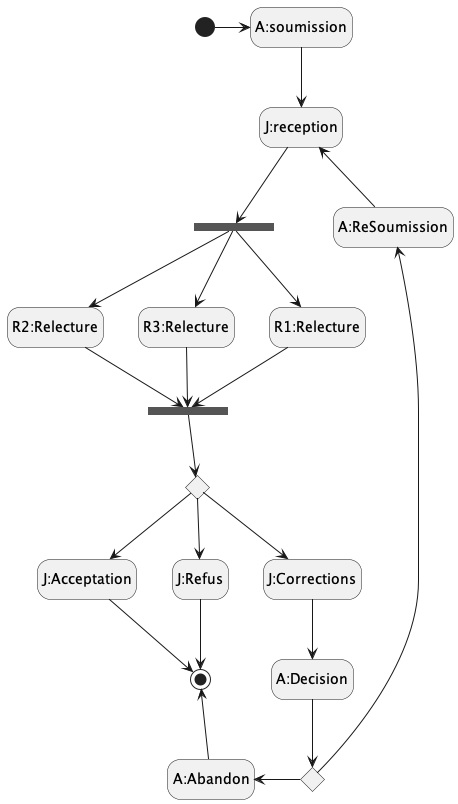
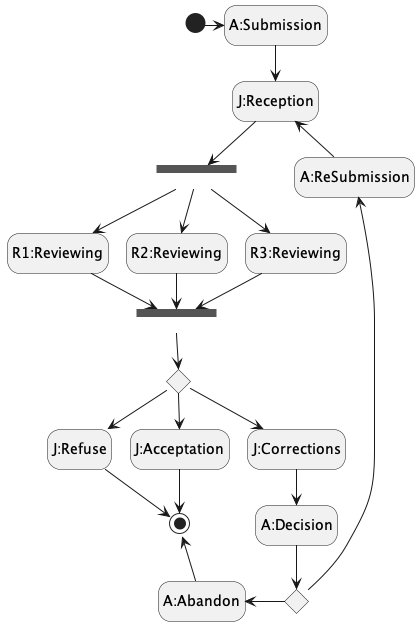
translation added (fsm)

diff --git a/fsm/salutations/AgentHelloEuropeenFSM.java b/fsm/salutations/AgentHelloEuropeenFSM.java
@@ -1,13 +1,13 @@
 package fsm.salutations;
 
-import jade.core.Agent;
 import jade.core.behaviours.FSMBehaviour;
 import jade.core.behaviours.WakerBehaviour;
+import jade.gui.AgentWindowed;
+import jade.gui.SimpleWindow4Agent;
 
-import static java.lang.System.out;
 
 /**
- * class for an agent that contains 1 behavior defined with a finited state machine (6 etats)
+ * class for an agent that contains 1 behavior defined with a finite state machine (6 etats)
  * A <---\
  * /   \    \
  * B     C    \
@@ -21,16 +21,17 @@ import static java.lang.System.out;
  * @author emmanueladam
  * @since 2021-11-24
  */
-public class AgentHelloEuropeenFSM extends Agent {
+public class AgentHelloEuropeenFSM extends AgentWindowed {
 
     /**
-     * procedure principale.
-     * lance les agents (1 de type AgentHelloEuropeenFSM ici)
+     * main function
+     * start some agents (of type AgentHelloEuropeenFSM )
      */
     public static void main(String[] args) {
         String[] jadeArgs = new String[2];
         StringBuilder sbAgents = new StringBuilder();
         sbAgents.append("a1:fsm.salutations.AgentHelloEuropeenFSM").append(";");
+        sbAgents.append("a2:fsm.salutations.AgentHelloEuropeenFSM").append(";");
         jadeArgs[0] = "-gui";
         jadeArgs[1] = sbAgents.toString();
         jade.Boot.main(jadeArgs);
@@ -41,51 +42,52 @@ public class AgentHelloEuropeenFSM extends Agent {
      */
     @Override
     protected void setup() {
-        out.println("Moi, Agent " + getLocalName() + ", mon  adresse est " + getAID());
-        out.println("J'execute des comportements selon une machine d'états finis");
+        window = new SimpleWindow4Agent(getAID().getName(), this);
+        println("Hello! I'm ready, my address is " + this.getAID().getName());
+        println("I execute the behaviors according to a finite state machine");
 
-        //creation du comportement de type machine d'etat finis
+        //a Finite State Machine behavior
         FSMBehaviour fsm = new FSMBehaviour(this) {
             public int onEnd() {
-                out.println("FSM behaviour terminé, je m'en vais");
+                println("FSM behaviour ended, I leave");
                 myAgent.doDelete();
                 return super.onEnd();
             }
         };
 
-        //____LES ETATS
-        //on enregistre les etats (idealement, les noms A, B, .. F devraient etre dans des constantes
-        //ETAT INITIAL (2 x bonjour)
+        //____THE STATES
+        //we store the states (ideally, names "A", "B", .. "F" should be in constants
+        //INITIAL STATE (2 x bonjour)
         fsm.registerFirstState(new EuropeanBehaviour("bonjour", 2), "A");
-        // autres etats
+        // other states
         fsm.registerState(new EuropeanBehaviour("hallo", 2), "B");
         fsm.registerState(new EuropeanBehaviour("buongiorno", 3), "C");
         fsm.registerState(new EuropeanBehaviour("buenos dias", 3), "D");
         fsm.registerState(new EuropeanBehaviour("Olá", 1), "E");
-        //ETAT FINAL (1 x saluton)
+        //FINAL STATE (1 x saluton)
         fsm.registerLastState(new EuropeanBehaviour("saluton", 1), "F");
 
-        //____LES TRANSITIONS
-        // de A on va à B si le comportement lie a A retourne 0 en fin (OnEnd)
+        // TRANSITIONS
+        // from A, we go to B if the behavior linked to A returns 0 On End
         fsm.registerTransition("A", "B", 0);
-        // de A on va a C si le comportement lie a A retourne 1 en fin (OnEnd)
+        // from A, we go to C if the behavior linked to A returns 1 On End
         fsm.registerTransition("A", "C", 1);
-        // de B on va a D si le comportement lie a B retourne 0 en fin (OnEnd)
+        // from B, we go to D if the behavior linked to B returns 0 On End
         fsm.registerTransition("B", "D", 0);
-        // de B on va a E si le comportement lie B retourne 1 en fin (OnEnd)
+        // from B, we go to E if the behavior linked to B returns 1 On End
         fsm.registerTransition("B", "E", 1);
-        // de C on va a E sans condition
+        // after C, we go to E without any condition
         fsm.registerDefaultTransition("C", "E");
-        // de D on va a E sans condition
+        // after D, we go to E without any condition
         fsm.registerDefaultTransition("D", "E");
-        // de E on va a F si le comportement lie a E retourne 0 en fin (OnEnd)
+        // from E, we go to F if the behavior linked to E returns 0 On End
         fsm.registerTransition("E", "F", 0);
-        // de E on retourne a A si le comportement lie a E retourne 1 en fin (OnEnd)
-        //alors on precise les comportement qui doivent realiser un reset
-        //si on ne "resette" pas, les comportements ne vont pas reinitialiser le nb de cycles courant
+        // from E, we go to A if the behavior linked to E returns 1 On End
+        //then we indicate which behaviors have to be reset
+        //if we do not "reset" them, the 'EuropeanBehaviors' will not reset the current number of cycles
         fsm.registerTransition("E", "A", 1, new String[]{"A", "B", "C", "D", "E", "F"});
 
-        // ajout d'un comportement qui ajoute le comportement fsm dans 100ms
+        // add the fsm behavior in  100ms
         addBehaviour(new WakerBehaviour(this, 100, a-> a.addBehaviour(fsm)));
     }
 

diff --git a/fsm/review/agents/AgentAuteur.java b/fsm/review/agents/AgentAuteur.java
@@ -23,57 +23,57 @@ import static java.lang.System.out;
  */
 public class AgentAuteur extends AgentWindowed {
 
-    final String SOUMETTRE = "soumettre";
-    final String ATTENDREAVIS = "attendre_avis";
-    final String POURSUIVRE = "poursuivre";
-    final String ARRETER = "arreter";
-    final String FETER = "feter";
+    final String SUBMIT = "submission";
+    final String WAITRESULT = "wait_decision";
+    final String CONTINUE = "continue";
+    final String STOP = "abandon";
+    final String CELEBRATE = "celebrate";
 
     FSMBehaviour fsm;
 
     /**
-     * un agent auteur soumet un article, attends le resultat puis fete, arrete ou resoumet selon le cas
+     * an author agent submits an article, waits for the decision and then celebrates, stops or resubmits as appropriate
      */
     protected void setup() {
         window = new SimpleWindow4Agent(getAID().getName(), this);
         window.setButtonActivated(true);
-        println("Hello! Agent  " + getLocalName() + " is ready, my address is " + this.getAID().getName());
+        println("Hello! I'm ready, my address is " + this.getAID().getName());
         println("- ".repeat(20));
 
         HashMap<String, Object> ds = new HashMap<>();
 
 
-        //creation du comportement de type machine d'etats finis
+        //creation of finite state machine type behavior
         fsm = new FSMBehaviour(this) {
             public int onEnd() {
-                out.println("FSM behaviour terminé, je m'en vais");
+                out.println("FSM behaviour ended, I'm leaving");
                 myAgent.doDelete();
                 return super.onEnd();
             }
         };
 
-        //____LES ETATS
-        //ETAT INITIAL
-        fsm.registerFirstState(soumettre(ds), SOUMETTRE);
+        //____THE STATES
+        // INITIAL STATE
+        fsm.registerFirstState(soumettre(ds), SUBMIT);
         // autres etats
-        fsm.registerState(attendreAvis(ds), ATTENDREAVIS);
-        fsm.registerState(resoumettre(ds), POURSUIVRE);
+        fsm.registerState(attendreAvis(ds), WAITRESULT);
+        fsm.registerState(resoumettre(ds), CONTINUE);
         //ETATS FINAUX
-        fsm.registerLastState(arreter(), ARRETER);
-        fsm.registerLastState(feter(), FETER);
+        fsm.registerLastState(arreter(), STOP);
+        fsm.registerLastState(feter(), CELEBRATE);
 
         //____LES TRANSITIONS
-        fsm.registerDefaultTransition(SOUMETTRE, ATTENDREAVIS);
+        fsm.registerDefaultTransition(SUBMIT, WAITRESULT);
         //si le comportement lie a attendre avis retourne 0, c'est fini
-        fsm.registerTransition(ATTENDREAVIS, ARRETER, 0);
+        fsm.registerTransition(WAITRESULT, STOP, 0);
         //si le comportement lie a attendre avis retourne 2, c'est fini mais on fete cela
-        fsm.registerTransition(ATTENDREAVIS, FETER, 2);
+        fsm.registerTransition(WAITRESULT, CELEBRATE, 2);
         //si le comportement lie a attendre avis retourne 1, on regarde pour poursuivre
-        fsm.registerTransition(ATTENDREAVIS, POURSUIVRE, 1);
+        fsm.registerTransition(WAITRESULT, CONTINUE, 1);
         //si le comportement lie a attendre poursuivre retourne 0, on a decide d'arreter
-        fsm.registerTransition(POURSUIVRE, ARRETER, 0);
+        fsm.registerTransition(CONTINUE, STOP, 0);
         //si le comportement lie a attendre poursuivre retourne 1, on retente une nouvelle soumission et on attends un nouvel avis (on reinitialise certains comportements)
-        fsm.registerTransition(POURSUIVRE, ATTENDREAVIS, 1, new String[]{ATTENDREAVIS, POURSUIVRE});
+        fsm.registerTransition(CONTINUE, WAITRESULT, 1, new String[]{WAITRESULT, CONTINUE});
 
 
     }

diff --git a/fsm/salutations/EuropeanBehaviour.java b/fsm/salutations/EuropeanBehaviour.java
@@ -1,9 +1,10 @@
 package fsm.salutations;
 
 import jade.core.behaviours.Behaviour;
+import jade.gui.AgentWindowed;
 
 /**
- * minimal behaviour that display nbCycles times a msg
+ * minimal behavior that display nbCycles times a msg
  *
  * @author emmanueladam
  * @version 2021-11-24
@@ -41,7 +42,7 @@ class EuropeanBehaviour extends Behaviour {
     @Override
     public void action() {
         i++;
-        System.out.println(myAgent.getLocalName() + " -> " + msg + " " + i + "/" + nbCycles);
+        ((AgentWindowed)myAgent).getWindow().println( msg + " " + i + "/" + nbCycles);
     }
 
     /**

diff --git a/fsm/review/readme.md b/fsm/review/readme.md
@@ -21,33 +21,34 @@ Jade Agent-Oriented Programming Course Materials
 <!-- 
 ```
 @startuml fsmReview
+!pragma layout smetana
 
 hide empty description
 
-[*] -> A:soumission
-A:soumission -- > J:reception
+[*] -> A:Submission
+A:Submission -- > J:Reception
 state JDispatch <<fork>>
-J:reception -- > JDispatch
-JDispatch -- > R1:Relecture
-JDispatch -- > R2:Relecture
-JDispatch -- > R3:Relecture
+J:Reception -- > JDispatch
+JDispatch -- > R1:Reviewing
+JDispatch -- > R2:Reviewing
+JDispatch -- > R3:Reviewing
 state JCollect <<fork>>
-R1:Relecture -- > JCollect
-R2:Relecture -- > JCollect
-R3:Relecture -- > JCollect
+R1:Reviewing -- > JCollect
+R2:Reviewing -- > JCollect
+R3:Reviewing -- > JCollect
 state resultat <<choice>>
 JCollect -- > resultat
-resultat -- > J:Refus
+resultat -- > J:Refuse
 resultat -- > J:Acceptation
 resultat -- > J:Corrections
-J:Refus -- > [*]
+J:Refuse -- > [*]
 J:Acceptation -- > [*]
 J:Corrections -- > A:Decision 
 state decision <<choice>>
 A:Decision -- > decision
-A:ReSoumission <-- decision
+A:ReSubmission <-- decision
 A:Abandon <-- decision
-J:reception <-- A:ReSoumission
+J:Reception <-- A:ReSubmission
 [*] <- A:Abandon 
 @enduml```
 -->

diff --git a/fsm/salutations/readme.md b/fsm/salutations/readme.md
@@ -28,15 +28,13 @@ state choiceFromB <<choice>>
 B -- > choiceFromB
 choiceFromB -- > D
 choiceFromB -- > E
-state synchroCD <<fork>>
-C-> synchroCD
-D -- > synchroCD
-synchroCD -- > E
+C-> E
+D -- > E
 state choiceFromE <<choice>>
-choiceFromE <- E  
-A <- choiceFromE 
+E -- > choiceFromE
+A <-- choiceFromE
 choiceFromE -> F
-F -- > [*]
+F -> [*]
 
 @enduml```
 
